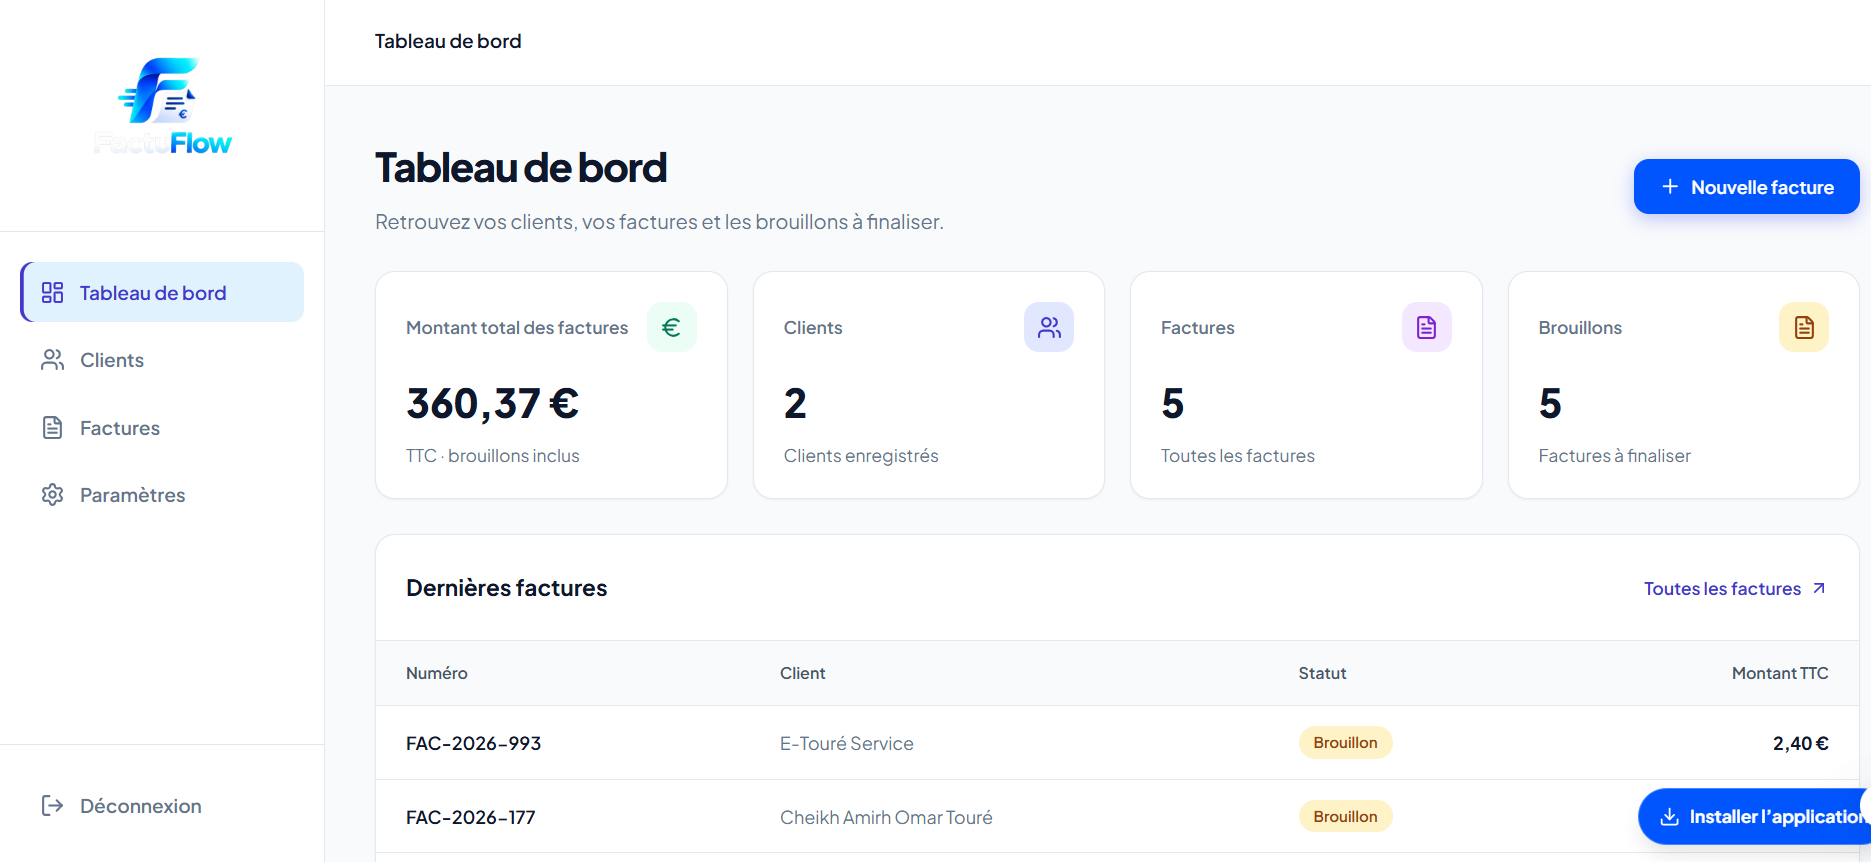
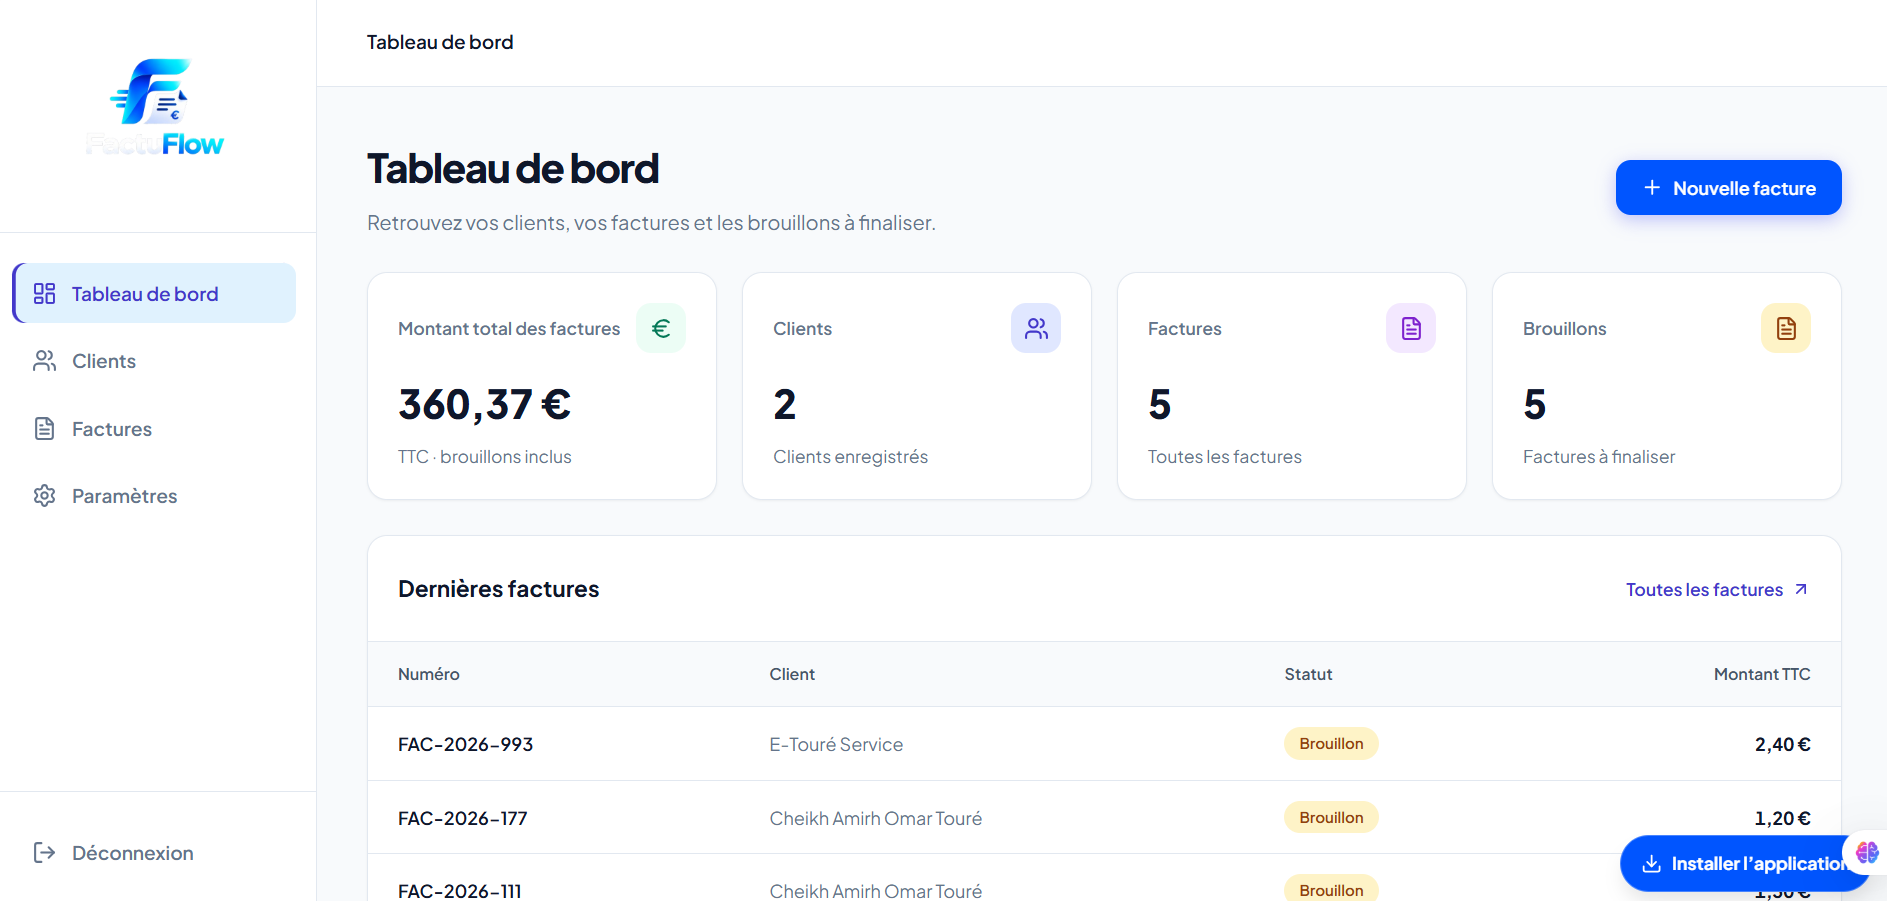
Portfolio final - 5 projets phares + correction CSS

diff --git a/src/index.css b/src/index.css
@@ -170,10 +170,28 @@ button { cursor: pointer; border: none; font-family: inherit; }
 /* =========================================
    5. PROJECTS
    ========================================= */
-.projects-grid { display: grid; grid-template-columns: repeat(auto-fill, minmax(500px, 1fr)); gap: 40px; }
-.project-card { background: white; border: 1px solid var(--border-light); border-radius: var(--radius-md); overflow: hidden; display: flex; flex-direction: column; }
-.project-card__image { position: relative; height: 300px; background: #e5e5e5; }
-.project-card__image img { width: 100%; height: 100%; object-fit: cover; }
+.projects-grid { display: grid; grid-template-columns: repeat(6, minmax(0, 1fr)); gap: 24px; max-width: 1100px; margin: 0 auto; justify-content: center; align-items: stretch; }
+.project-card { grid-column: span 2; min-width: 0; background: white; border: 1px solid var(--border-light); border-radius: 24px; overflow: hidden; display: flex; flex-direction: column; box-shadow: 0 10px 30px rgba(20, 20, 20, 0.07); transition: transform 0.3s ease, box-shadow 0.3s ease, border-color 0.3s ease; }
+.project-card:hover { transform: translateY(-5px); border-color: rgba(249, 115, 22, 0.3); box-shadow: 0 18px 42px rgba(20, 20, 20, 0.12); }
+.project-image { position: relative; padding: 14px; aspect-ratio: 16 / 10; background: linear-gradient(135deg, #f5f4f1, #e9e8e5); border-bottom: 1px solid var(--border-light); }
+.project-image::after { content: ''; position: absolute; inset: 0; pointer-events: none; background: linear-gradient(180deg, rgba(0,0,0,0.06) 0%, rgba(0,0,0,0) 22%); }
+.project-image-frame { position: relative; width: 100%; height: 100%; border-radius: 14px; overflow: hidden; box-shadow: 0 4px 14px rgba(20, 20, 20, 0.10), inset 0 0 0 1px rgba(20, 20, 20, 0.06); background: #fff; }
+.project-image-frame img { display: block; width: 100%; height: 100%; object-fit: cover; object-position: center; transition: transform 0.6s cubic-bezier(0.22, 1, 0.36, 1); }
+.project-card:hover .project-image-frame img { transform: scale(1.05); }
+.project-status { position: absolute; top: 26px; right: 26px; z-index: 2; display: inline-flex; align-items: center; gap: 6px; padding: 6px 12px; border-radius: 999px; background: rgba(255, 255, 255, 0.92); color: #166534; font-size: 0.7rem; font-weight: 600; line-height: 1.2; box-shadow: 0 4px 12px rgba(20, 20, 20, 0.15); backdrop-filter: blur(8px); }
+.project-status::before { content: ''; width: 6px; height: 6px; border-radius: 50%; background: #16a34a; box-shadow: 0 0 0 3px rgba(22, 163, 74, 0.18); }
+.project-content { padding: clamp(22px, 2.5vw, 30px); display: flex; flex-direction: column; align-items: center; text-align: center; flex: 1; }
+.project-title { margin: 0 0 12px; font-size: clamp(1.35rem, 1.8vw, 1.6rem); }
+.project-type { margin: 0 0 10px; color: var(--accent-orange); font-family: var(--font-mono); font-size: 0.65rem; letter-spacing: 0.14em; line-height: 1.5; }
+.project-divider { width: 44px; height: 2px; border-radius: 2px; background: linear-gradient(90deg, var(--accent-orange), transparent); margin: 0 0 14px; }
+.project-desc { margin: 0 0 18px; color: var(--text-muted); font-size: 0.88rem; line-height: 1.7; }
+.project-tags { display: flex; flex-wrap: wrap; justify-content: center; gap: 7px; margin-top: auto; }
+.project-tags .tag { padding: 5px 11px; border: 1px solid var(--border-light); border-radius: 999px; background: var(--bg-light); color: var(--text-muted); font-size: 0.68rem; line-height: 1.2; }
+.project-link { display: inline-flex; align-items: center; gap: 7px; align-self: flex-start; margin-top: 18px; color: var(--text-main); font-size: 0.85rem; font-weight: 600; transition: color 0.2s ease, gap 0.2s ease; }
+.project-link:hover { gap: 11px; color: var(--accent-orange); opacity: 1; }
+.project-link:focus-visible { outline: 2px solid var(--accent-orange); outline-offset: 4px; border-radius: 2px; }
+.project-card:nth-child(4):nth-last-child(2) { grid-column: 2 / span 2; }
+.project-card:nth-child(5):last-child { grid-column: 4 / span 2; }
 .project-card__badges { position: absolute; top: 16px; left: 16px; display: flex; gap: 8px; flex-wrap: wrap; }
 .badge-status { background: rgba(244,243,240,0.9); color: var(--text-main); font-family: var(--font-mono); font-size: 0.65rem; padding: 6px 10px; border-radius: 99px; display: flex; align-items: center; gap: 6px; border: 1px solid #ddd; }
 .badge-status .dot { width: 6px; height: 6px; background: var(--accent-orange); border-radius: 50%; }
@@ -181,7 +199,7 @@ button { cursor: pointer; border: none; font-family: inherit; }
 .project-card__id { position: absolute; bottom: 16px; right: 16px; color: white; font-family: var(--font-serif); font-size: 1.5rem; background: rgba(0,0,0,0.5); padding: 4px 12px; border-radius: 8px; }
 .project-card__content { padding: 32px; flex: 1; display: flex; flex-direction: column; }
 .project-card__type { font-family: var(--font-mono); font-size: 0.7rem; color: var(--text-muted); letter-spacing: 1px; margin-bottom: 8px; }
-.project-card h3 { font-size: 2rem; margin-bottom: 16px; }
+.project-card h3 { font-size: clamp(1.3rem, 1.8vw, 1.6rem); margin: 0 0 12px; }
 .project-card__desc { color: var(--text-muted); font-size: 0.95rem; margin-bottom: 24px; }
 .project-card__features { margin-bottom: 24px; }
 .project-card__features li { display: flex; align-items: center; gap: 8px; font-size: 0.9rem; color: var(--text-muted); margin-bottom: 8px; }
@@ -313,7 +331,12 @@ button { cursor: pointer; border: none; font-family: inherit; }
 @media (max-width: 992px) {
   .hero__inner, .about-layout, .journey-layout, .contact-layout, .footer-grid { grid-template-columns: 1fr; }
   .hero__visual { display: none; }
-  .projects-grid { grid-template-columns: 1fr; }
+  .projects-grid { grid-template-columns: repeat(2, minmax(0, 1fr)); }
+  .project-card { grid-column: auto; }
+  .project-card:nth-child(4):nth-last-child(2),
+  .project-card:nth-child(5):last-child { grid-column: auto; }
+  .project-card:nth-child(5):last-child { grid-column: 1 / -1; width: calc((100% - 24px) / 2); justify-self: center; }
+  .project-divider { margin-inline: auto; }
   .skills-grid, .process-grid { grid-template-columns: 1fr 1fr; }
   .hero__title { font-size: 3rem; }
   .footer-links { grid-template-columns: 1fr 1fr; }
@@ -323,6 +346,15 @@ button { cursor: pointer; border: none; font-family: inherit; }
   .navbar__nav, .navbar__actions .nav-btn-cv, .navbar__actions .nav-btn-contact { display: none; }
   .burger { display: block; }
   .navbar__nav.is-open { display: flex; flex-direction: column; position: absolute; top: 80px; left: 24px; right: 24px; background: #111; padding: 24px; border-radius: var(--radius-md); border: 1px solid #333; }
+  .projects-grid { grid-template-columns: minmax(0, 1fr); gap: 18px; }
+  .project-card { grid-column: 1; width: 100%; max-width: 520px; justify-self: center; }
+  .project-card:nth-child(4):nth-last-child(2),
+  .project-card:nth-child(5):last-child { grid-column: 1; }
+  .project-image { padding: 10px; }
+  .project-image-frame { border-radius: 10px; }
+  .project-status { top: 20px; right: 20px; }
+  .project-title { text-align: center; }
+  .project-divider { margin-inline: auto; }
   .skills-grid, .process-grid, .about-cards, .contact-cards { grid-template-columns: 1fr; }
   .form-row { grid-template-columns: 1fr; }
   .section-title-row { flex-direction: column; align-items: flex-start; gap: 24px; }
@@ -360,6 +392,8 @@ body.dark-mode {
 
 /* Ajustements spécifiques pour les composants qui ont des fonds blancs en dur */
 body.dark-mode .project-card,
+body.dark-mode .project-image-frame,
+body.dark-mode .project-image,
 body.dark-mode .about-card,
 body.dark-mode .about-image__overlay,
 body.dark-mode .skill-col,
@@ -639,7 +673,8 @@ body.dark-mode .marquee-container::after {
               border-color 0.35s;
 }
 .project-card:hover {
-  transform: translateY(-8px);
+  transform: translateY(-6px);
+  border-color: rgba(249, 115, 22, 0.35);
   box-shadow: 0 20px 40px rgba(0, 0, 0, 0.1);
 }
 .about-card:hover,

diff --git a/src/components/Projects.jsx b/src/components/Projects.jsx
@@ -4,29 +4,46 @@ const PROJECTS = [
   {
     title: 'FactuFlow',
     type: 'SAAS DE FACTURATION',
-    desc: "Application web complète permettant aux freelances et TPE de gérer leurs clients, créer des factures avec calculs automatiques (HT/TVA/TTC) et générer des PDF professionnels.",
-    tags: ['React 19', 'Supabase', 'PostgreSQL', 'Vercel', 'PWA'],
-    // Mets ici une capture d'écran de ton dashboard FactuFlow
+    desc: "Application web complète permettant aux freelances et TPE de gérer leurs clients, créer des factures avec calculs automatiques (HT/TVA/TTC) et générer des PDF professionnels. Système d'authentification sécurisé et PWA installable.",
+    tags: ['React 19', 'Supabase', 'PostgreSQL', 'PDF', 'PWA'],
     img: '/factuflow-preview.png', 
     link: 'https://factuflow-a.vercel.app/',
     status: 'En ligne'
   },
   {
-    title: 'E-Touré',
-    type: 'SAAS DE GESTION DE BOUTIQUE',
-    desc: "Plateforme pour les commerçants de Touba leur permettant de digitaliser leur stock, gérer les dettes clients et encaisser rapidement.",
-    tags: ['JavaScript', 'Supabase', 'PostgreSQL', 'Edge Functions'],
-    img: 'https://images.unsplash.com/photo-1556742049-0cfed4f6a45d?q=80&w=1000&auto=format&fit=crop',
-    link: '#', // À remplacer par le vrai lien
+    title: 'Assistant IA E-Touré',
+    type: 'INTELLIGENCE ARTIFICIELLE',
+    desc: "Chatbot intelligent conçu pour l'entreprise E-Touré Service. Capable de répondre aux questions des clients, d'estimer des prix et de qualifier les demandes de devis 24h/24.",
+    tags: ['JavaScript', 'API IA', 'NLP', 'Netlify'],
+    img: '/chatbot-preview.png',
+    link: 'https://chatbot-e-toure-service.netlify.app/',
     status: 'En ligne'
   },
   {
-    title: 'Bafing Market',
-    type: 'MARKETPLACE DE SECONDE MAIN',
-    desc: "Marketplace de proximité permettant aux vendeurs d'occasion de publier des annonces et aux acheteurs de trouver des articles près de chez eux.",
-    tags: ['HTML5', 'CSS3', 'JavaScript', 'Supabase'],
-    img: 'https://images.unsplash.com/photo-1441986300917-64674bd600d8?q=80&w=1000&auto=format&fit=crop',
-    link: '#',
+    title: 'Saga Chat',
+    type: 'MESSAGERIE EN TEMPS RÉEL',
+    desc: "Application de messagerie instantanée avec indicateur de frappe, statuts de lecture (✓✓), sons de notification et suppression de messages. Interface PWA installable et responsive.",
+    tags: ['JavaScript', 'Supabase Realtime', 'WebSockets', 'PWA'],
+    img: '/saga-chat-preview.png',
+    link: 'https://saga-chatt.netlify.app/',
+    status: 'En ligne'
+  },
+  {
+    title: 'E-Touré Service',
+    type: 'SITE VITRINE & SEO',
+    desc: "Site vitrine pour une entreprise de transport et dépannage (France & Belgique). Design moderne, présentation des services, tarifs et formulaire de contact intelligent redirigeant vers WhatsApp.",
+    tags: ['HTML5', 'CSS3', 'SEO', 'Responsive'],
+    img: '/e-toure-preview.png',
+    link: 'https://e-toure-service.netlify.app/',
+    status: 'En ligne'
+  },
+  {
+    title: 'Toure Track',
+    type: 'LOGISTIQUE & GESTION',
+    desc: "Plateforme de gestion de livraisons permettant de suivre les expéditions, gérer les chauffeurs et visualiser les performances en temps réel via un tableau de bord dédié.",
+    tags: ['React', 'Supabase', 'Logistique', 'Dashboard'],
+    img: '/toure-track-preview.png',
+    link: 'https://toure-track.vercel.app/',
     status: 'En ligne'
   }
 ];
@@ -42,8 +59,8 @@ export default function Projects() {
 
       <div className="projects-grid">
         {PROJECTS.map((project, index) => (
-          <motion.div 
-            key={index}
+          <motion.article
+            key={project.title}
             className="project-card"
             initial={{ opacity: 0, y: 30 }}
             whileInView={{ opacity: 1, y: 0 }}
@@ -51,13 +68,16 @@ export default function Projects() {
             transition={{ duration: 0.5, delay: index * 0.1 }}
           >
             <div className="project-image">
-              <img src={project.img} alt={project.title} />
+              <div className="project-image-frame">
+                <img src={project.img} alt={`Aperçu de ${project.title}`} loading="lazy" decoding="async" />
+              </div>
               <span className="project-status">{project.status}</span>
             </div>
             
             <div className="project-content">
               <p className="project-type">{project.type}</p>
               <h3 className="project-title">{project.title}</h3>
+              <div className="project-divider" aria-hidden="true" />
               <p className="project-desc">{project.desc}</p>
               
               <div className="project-tags">
@@ -67,10 +87,10 @@ export default function Projects() {
               </div>
               
               <a href={project.link} target="_blank" rel="noopener noreferrer" className="project-link">
-                {project.link !== '#' ? "Voir l'application en direct →" : "En savoir plus →"}
+                Voir l'application en direct →
               </a>
             </div>
-          </motion.div>
+          </motion.article>
         ))}
       </div>
     </section>
